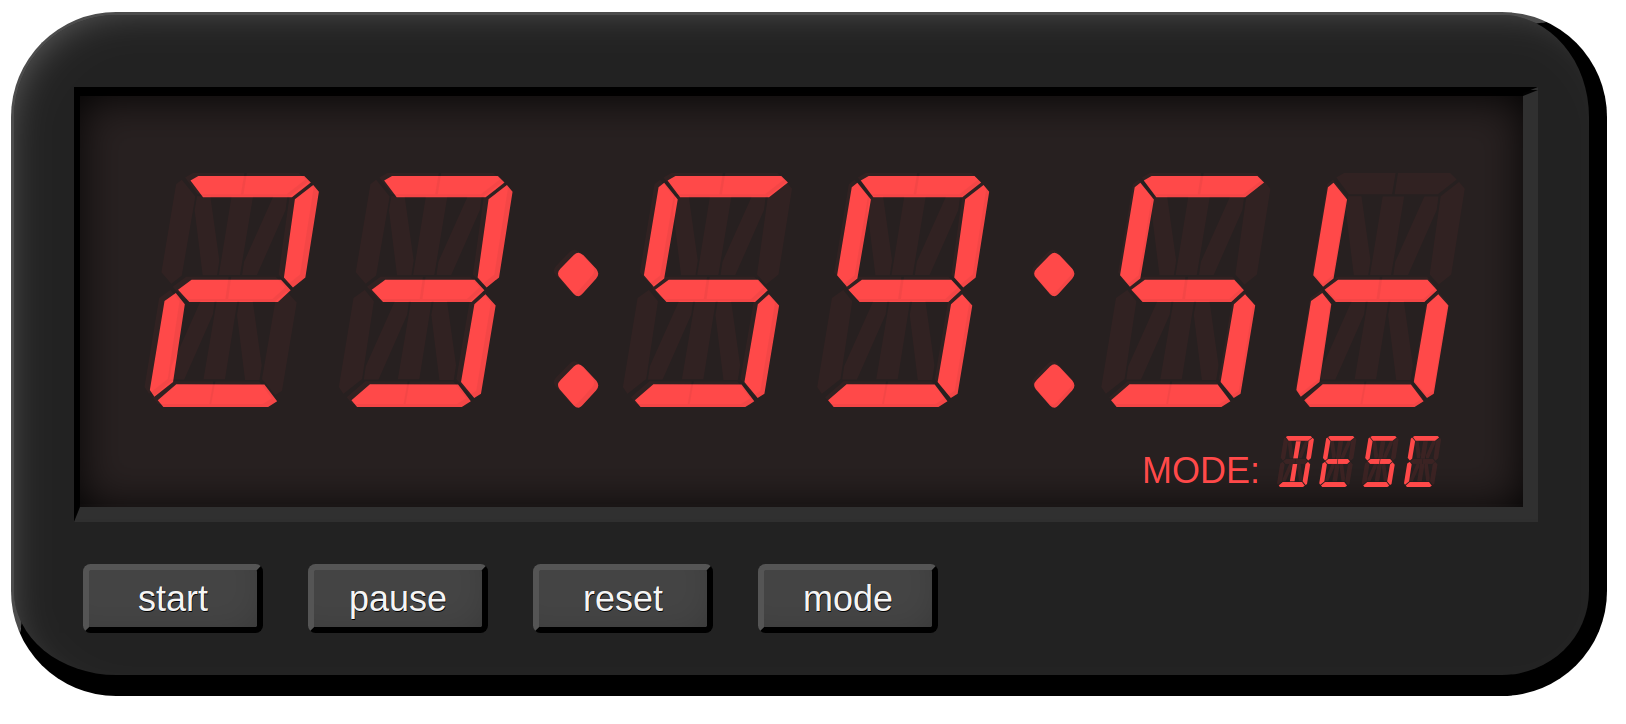
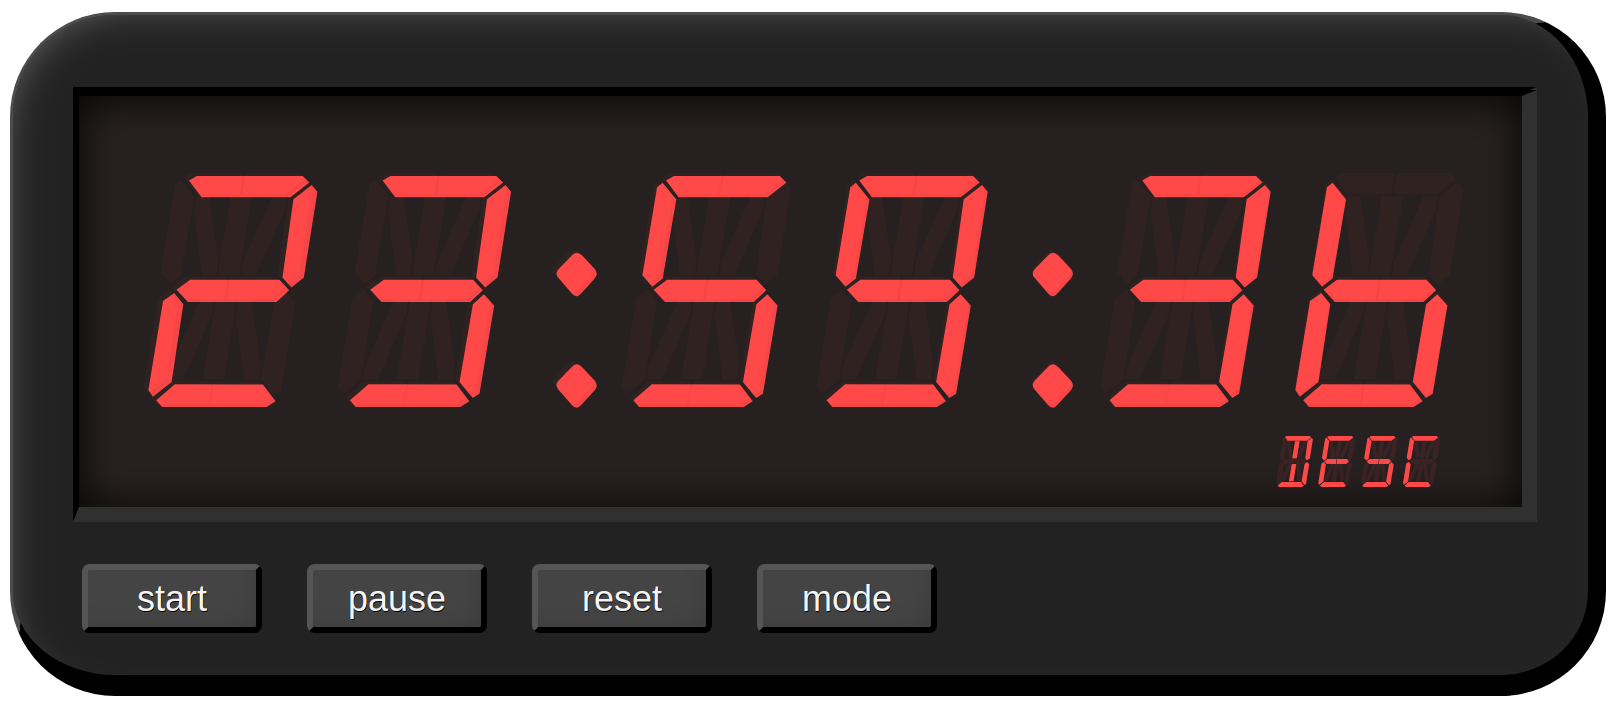
Adicionando tecla para alternar o modo

diff --git a/js/challenge-21.js b/js/challenge-21.js
@@ -25,9 +25,23 @@ dado ao elemento HTML deve definir o que o elemento é ou o que ele faz.
   let $buttonMode = document.querySelector("[data-js=mode]");
   let $labelModo = document.querySelector("[data-js=descricaoModo]");
   let rodando = false;
-  let modo = -1;
+  let modo = 1;
   let temporizador;
   let tempo;
+  let acoesDasTeclas = [
+    {
+      isTecla: tecla => tecla === " " || tecla === "F7",
+      executar: () => (rodando ? pausarContagem() : iniciarContagem())
+    },
+    {
+      isTecla: tecla => tecla === "Escape",
+      executar: () => reiniciarContagem()
+    },
+    {
+      isTecla: tecla => tecla.toUpperCase() === "M" || tecla === "F2",
+      executar: () => alternarModo()
+    }
+  ];
 
   moment.locale("pt-br");
 
@@ -68,12 +82,9 @@ dado ao elemento HTML deve definir o que o elemento é ou o que ele faz.
   }
 
   function comandarPorTeclas(event) {
-    switch (event.key) {
-      case (" ", "F7"):
-        return rodando ? pausarContagem() : iniciarContagem();
-      case "Escape":
-        return reiniciarContagem();
-    }
+    acoesDasTeclas
+      .filter(acaoTecla => acaoTecla.isTecla(event.key))
+      .forEach(acaoTecla => acaoTecla.executar());
   }
 
   function alternarModo() {

diff --git a/index.html b/index.html
@@ -12,7 +12,7 @@
         <input data-js="fundoVisor" type="text" value="ÆÆ:ÆÆ:ÆÆ" disabled /></br>
         <input data-js="visor" type="text" size="6" maxlength="8" value="00:00:00" />
         <label data-js="fundoModo">ÆÆÆÆ</label>
-        <label data-js="modo">MODE:</label>
+        <!-- <label data-js="modo">MODE:</label> -->
         <label data-js="descricaoModo">ASC</label>
         <div class="botoes">
             <button data-js="start" type="button">start</button>
